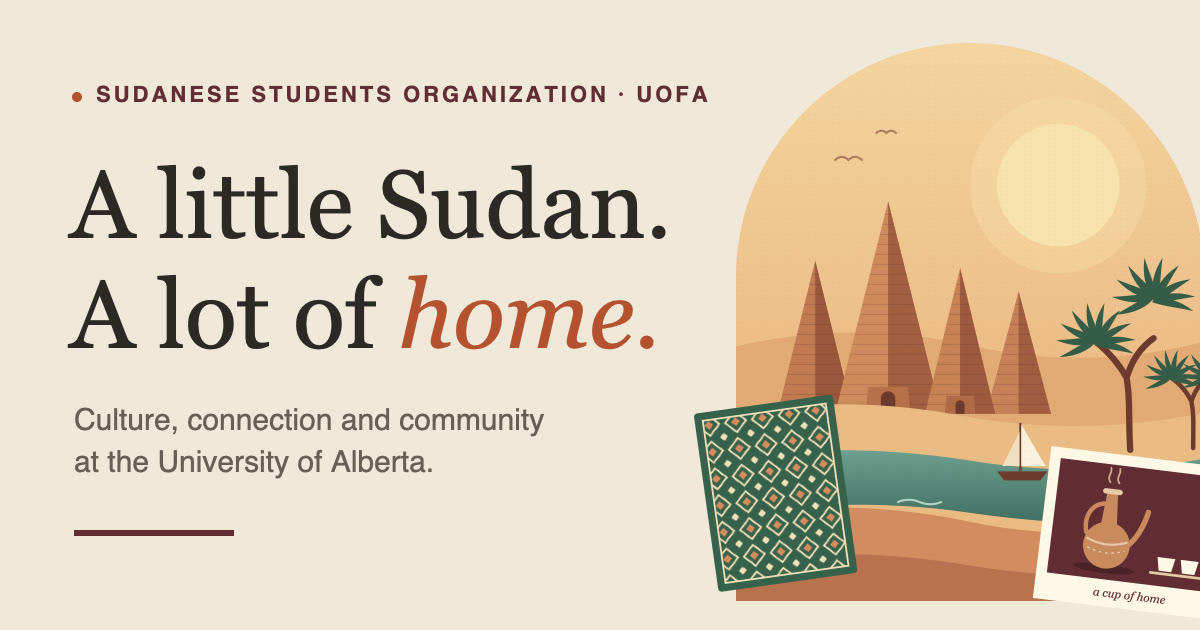
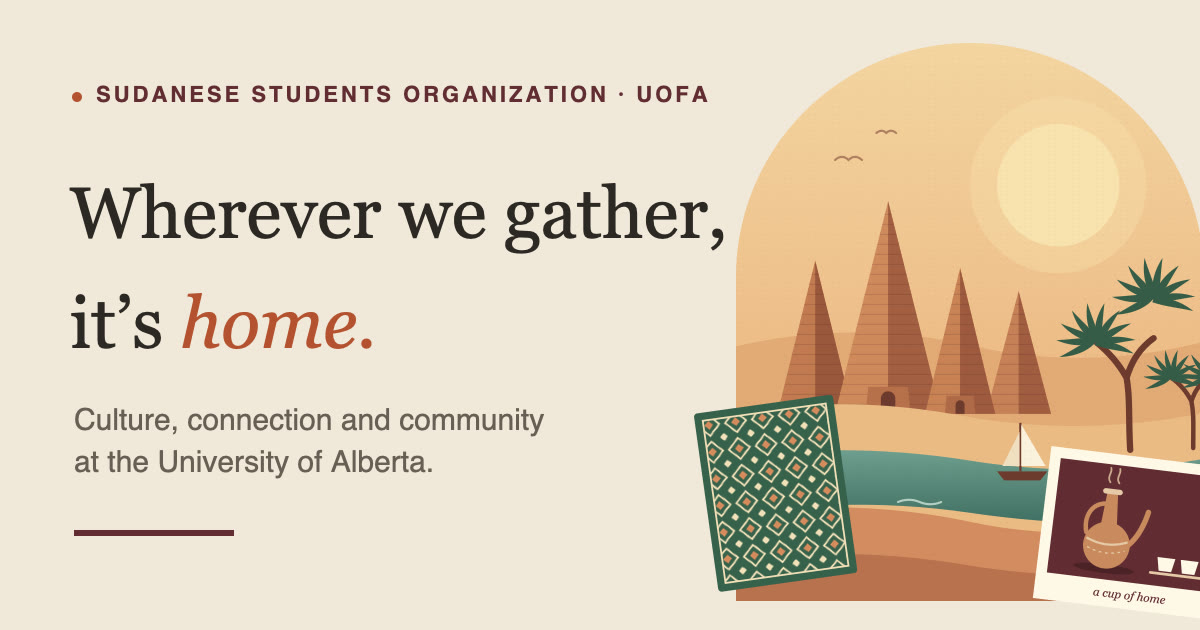
Replace hero tagline and add Sudanese easter eggs
- New headline "Wherever we gather, it's home." (وين ما اتلمّينا، دا البيت.)
  in place of "A little Sudan", including the page title and share image
- Clickable jebena, sun and felucca in the inlined hero illustration
- Type "shai" or "sudan" for a surprise (flag-coloured confetti)
- Scrolling band of Sudanese words, a random Sudanese proverb in the
  footer, Jumu'ah Mubarak on Fridays, playful FAQ, empty-state and 404 copy

Changed region(s): [[0.0617, 0.2413, 0.6167, 0.4222], [0.0617, 0.4222, 0.3083, 0.573], [0.3083, 0.4222, 0.555, 0.573]]

diff --git a/src/assets/site.css b/src/assets/site.css
@@ -513,12 +513,12 @@ html[dir="rtl"] .page-head::before {
 }
 .hero-grid {
   display: grid;
-  grid-template-columns: 1.1fr 1fr;
+  grid-template-columns: 1.25fr 1fr;
   align-items: center;
   gap: clamp(32px, 5vw, 64px);
 }
 .hero h1 {
-  font-size: clamp(48px, 7vw, 92px);
+  font-size: clamp(44px, 5.4vw, 70px);
   letter-spacing: -0.025em;
   margin-bottom: 24px;
 }
@@ -533,6 +533,7 @@ html[lang="ar"] .hero h1 {
 }
 .hero-art {
   position: relative;
+  width: 100%;
   margin: 0;
   max-width: 520px;
   justify-self: center;
@@ -572,28 +573,174 @@ html[lang="ar"] .hero-art figcaption {
   padding-block: 18px;
   overflow: hidden;
 }
-.ticker .wrap {
+.ticker-track {
+  display: flex;
+  width: max-content;
+  animation: ticker 48s linear infinite;
+}
+.ticker:hover .ticker-track {
+  animation-play-state: paused;
+}
+.ticker-set {
   display: flex;
   align-items: center;
-  justify-content: space-between;
-  gap: 24px;
+  gap: 28px;
+  padding-inline-end: 28px;
   font-size: 14px;
   font-weight: 700;
-  letter-spacing: 0.18em;
+  letter-spacing: 0.16em;
   text-transform: uppercase;
   white-space: nowrap;
+}
+.ticker-set [lang="ar"] {
+  font-size: 16px;
+  letter-spacing: 0;
 }
 .ticker svg {
   width: 14px;
   flex: none;
 }
-@media (max-width: 640px) {
-  .ticker .wrap > :nth-child(n + 4) {
-    display: none;
+@keyframes ticker {
+  to {
+    transform: translateX(-50%);
   }
-  .ticker .wrap {
-    justify-content: center;
+}
+@media (prefers-reduced-motion: reduce) {
+  .ticker-track {
+    animation: none;
   }
+}
+
+/* Easter eggs ------------------------------------------------------------- */
+.hero-svg {
+  width: 100%;
+  height: auto;
+  overflow: visible;
+}
+.egg {
+  cursor: pointer;
+}
+.egg-jebena:hover > g,
+.egg-felucca:hover > g {
+  filter: brightness(1.06);
+}
+.egg-sun .sun-halo,
+.egg-felucca,
+.steam {
+  transform-box: fill-box;
+  transform-origin: center;
+}
+.egg-sun.play .sun-halo {
+  animation: halo 1.6s ease-out 2;
+}
+.egg-felucca.play {
+  animation: sail 5s ease-in-out;
+}
+.egg-jebena.play .steam {
+  animation: steam 1.4s ease-out 3;
+}
+@keyframes halo {
+  50% {
+    transform: scale(1.25);
+    opacity: 0.6;
+  }
+}
+@keyframes sail {
+  45% {
+    transform: translateX(150px) rotate(-2deg);
+  }
+  55% {
+    transform: translateX(150px) scaleX(-1);
+  }
+}
+@keyframes steam {
+  from {
+    transform: translateY(6px);
+    opacity: 0;
+  }
+  40% {
+    opacity: 1;
+  }
+  to {
+    transform: translateY(-14px);
+    opacity: 0;
+  }
+}
+@media (prefers-reduced-motion: reduce) {
+  .egg.play,
+  .egg.play * {
+    animation: none !important;
+  }
+}
+
+.egg-toast {
+  position: fixed;
+  inset-inline: 16px;
+  bottom: 24px;
+  z-index: 60;
+  width: fit-content;
+  max-width: 520px;
+  margin-inline: auto;
+  padding: 14px 22px;
+  border-radius: 16px;
+  background: var(--maroon);
+  color: var(--on-dark);
+  box-shadow: 0 10px 30px rgb(44 40 36 / 0.25);
+  font-weight: 500;
+  text-align: center;
+  opacity: 0;
+  transform: translateY(16px);
+  pointer-events: none;
+  transition:
+    opacity 0.25s,
+    transform 0.25s;
+}
+.egg-toast.show {
+  opacity: 1;
+  transform: none;
+}
+
+.confetti {
+  position: fixed;
+  inset: 0;
+  z-index: 55;
+  overflow: hidden;
+  pointer-events: none;
+}
+.confetti i {
+  position: absolute;
+  top: -20px;
+  width: 9px;
+  height: 14px;
+  border: 1px solid rgb(0 0 0 / 0.08);
+  animation: confetti-fall linear forwards;
+}
+@keyframes confetti-fall {
+  to {
+    transform: translate(var(--drift), 110vh) rotate(var(--spin));
+  }
+}
+
+/* Footer proverb */
+.proverb {
+  margin: 24px 0 0;
+  padding-inline-start: 16px;
+  border-inline-start: 3px solid var(--terracotta);
+}
+.proverb blockquote {
+  margin: 0;
+  font-family: var(--font-arabic);
+  font-size: 22px;
+  font-weight: 700;
+  color: var(--maroon);
+}
+.proverb figcaption {
+  font-size: 15px;
+  color: var(--muted);
+}
+.friday {
+  font-weight: 700;
+  color: var(--green);
 }
 
 /* Home: about ------------------------------------------------------------- */

diff --git a/src/assets/site.js b/src/assets/site.js
@@ -135,4 +135,92 @@
       }),
     );
   }
+  // Sudanese easter eggs -----------------------------------------------------
+  // Click the jebena, the sun or the felucca in the hero; type "shai" or "sudan"
+  // anywhere; look at the footer on a Friday.
+  const reduceMotion = matchMedia("(prefers-reduced-motion: reduce)").matches;
+  let messages = {};
+  try {
+    messages = JSON.parse($("#egg-messages")?.textContent || "{}");
+  } catch {}
+  let toastTimer;
+  const toast = (text) => {
+    let el = $(".egg-toast");
+    if (!el) {
+      el = document.createElement("div");
+      el.className = "egg-toast";
+      el.setAttribute("role", "status");
+      document.body.append(el);
+    }
+    el.textContent = text;
+    el.classList.add("show");
+    clearTimeout(toastTimer);
+    toastTimer = setTimeout(() => el.classList.remove("show"), 5000);
+  };
+  const replay = (el) => {
+    el.classList.remove("play");
+    el.getBoundingClientRect();
+    el.classList.add("play");
+  };
+
+  const hero = $(".hero-art");
+  if (hero) {
+    $$("[data-egg]", hero).forEach((part) =>
+      part.addEventListener("click", () => {
+        const key = "egg" + part.dataset.egg[0].toUpperCase() + part.dataset.egg.slice(1);
+        toast(hero.dataset[key]);
+        replay(part);
+      }),
+    );
+  }
+
+  const flagConfetti = () => {
+    if (reduceMotion) return;
+    const colours = ["#d21034", "#ffffff", "#000000", "#007229"];
+    const layer = document.createElement("div");
+    layer.className = "confetti";
+    layer.setAttribute("aria-hidden", "true");
+    for (let i = 0; i < 70; i++) {
+      const bit = document.createElement("i");
+      bit.style.cssText = `left:${Math.random() * 100}%;background:${colours[i % 4]};animation-delay:${Math.random() * 0.8}s;animation-duration:${2.2 + Math.random() * 1.6}s;--drift:${(Math.random() - 0.5) * 160}px;--spin:${Math.random() * 720}deg`;
+      layer.append(bit);
+    }
+    document.body.append(layer);
+    setTimeout(() => layer.remove(), 4800);
+  };
+
+  let typed = "";
+  document.addEventListener("keydown", (e) => {
+    if (e.target.closest?.("input, textarea, select") || e.ctrlKey || e.metaKey || e.key.length !== 1) return;
+    typed = (typed + e.key.toLowerCase()).slice(-12);
+    if (typed.endsWith("shai") || typed.endsWith("شاي")) {
+      toast(messages.shai);
+      typed = "";
+    } else if (typed.endsWith("sudan") || typed.endsWith("سودان")) {
+      toast(messages.sudan);
+      flagConfetti();
+      typed = "";
+    }
+  });
+
+  // A different Sudanese saying in the footer on each visit.
+  const proverb = $(".proverb");
+  if (proverb) {
+    try {
+      const list = JSON.parse(proverb.dataset.proverbs);
+      const pick = list[Math.floor(Math.random() * list.length)];
+      $("blockquote", proverb).textContent = pick.ar;
+      $("figcaption", proverb).textContent = pick.gloss;
+    } catch {}
+  }
+
+  // Jumu'ah Mubarak on Fridays (Edmonton time).
+  const weekday = new Intl.DateTimeFormat("en-US", { timeZone: "America/Edmonton", weekday: "long" }).format(new Date());
+  if (weekday === "Friday") $$(".friday").forEach((el) => (el.hidden = false));
+
+  console.log(
+    "%cأهلاً بيك! %cKef al-hal? Curious how this site is built? github.com/ahmedezeldin/sso-uofa",
+    "font: 700 20px sans-serif; color: #612c32",
+    "font: 14px sans-serif; color: #675e54",
+  );
 })();

diff --git a/README.md b/README.md
@@ -45,6 +45,10 @@ Events move from "Upcoming" to "Past" on their own. The calendar feed (`/sso-eve
 
 Put portraits in `src/assets/team/` (portrait orientation, about 800×1000, JPEG), then add `photo: "team/name.jpg"` to that person in `team`.
 
+### Sudanese touches
+
+There are a few easter eggs to keep: click the jebena, the sun or the felucca in the home illustration; type "shai" or "sudan" anywhere; the footer shows a random Sudanese saying (`proverbs` in `content.mjs`) and says Jumu‘ah Mubarak on Fridays. The words in the scrolling band are `tickerWords`.
+
 ## Running it locally
 
 You need [Node.js](https://nodejs.org) 20 or newer. No packages to install.
